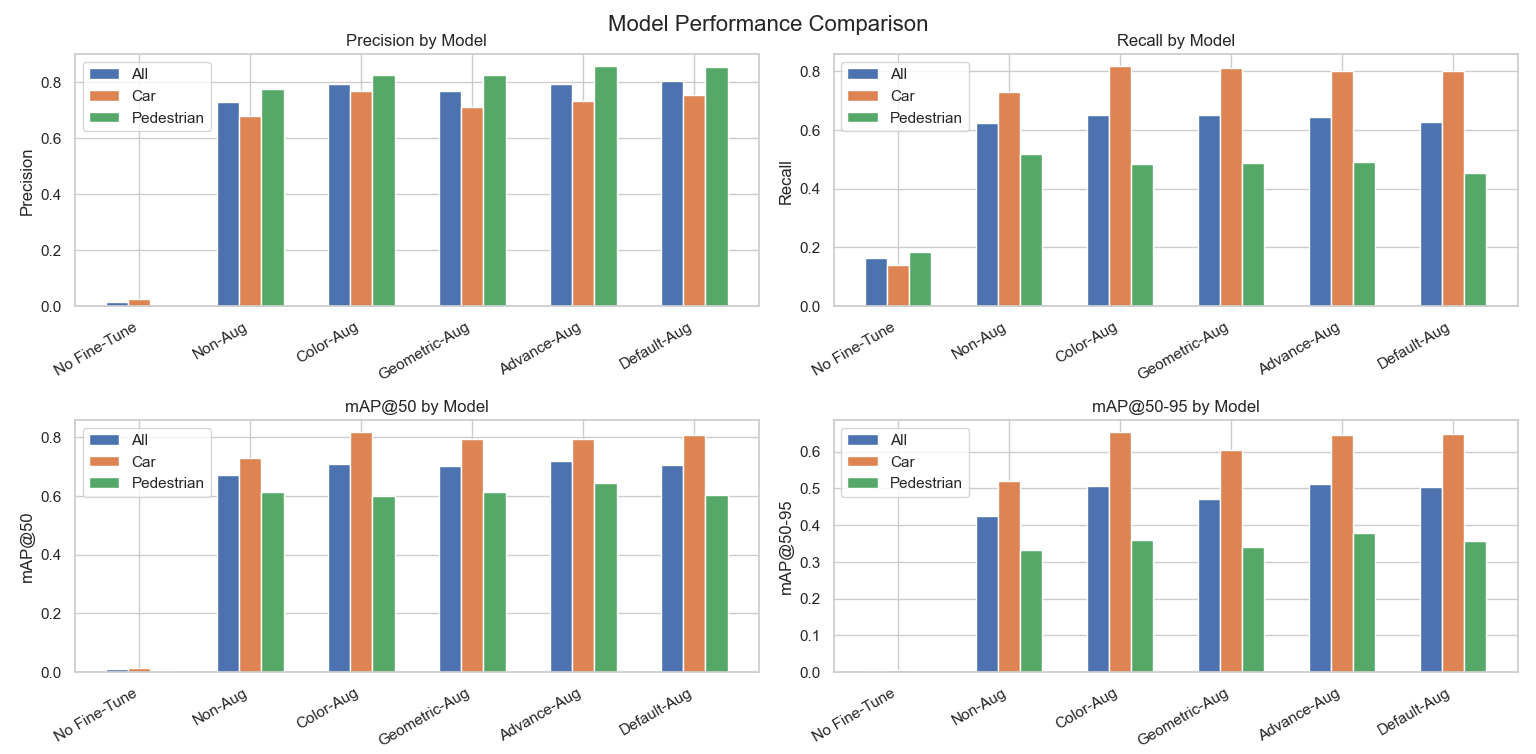
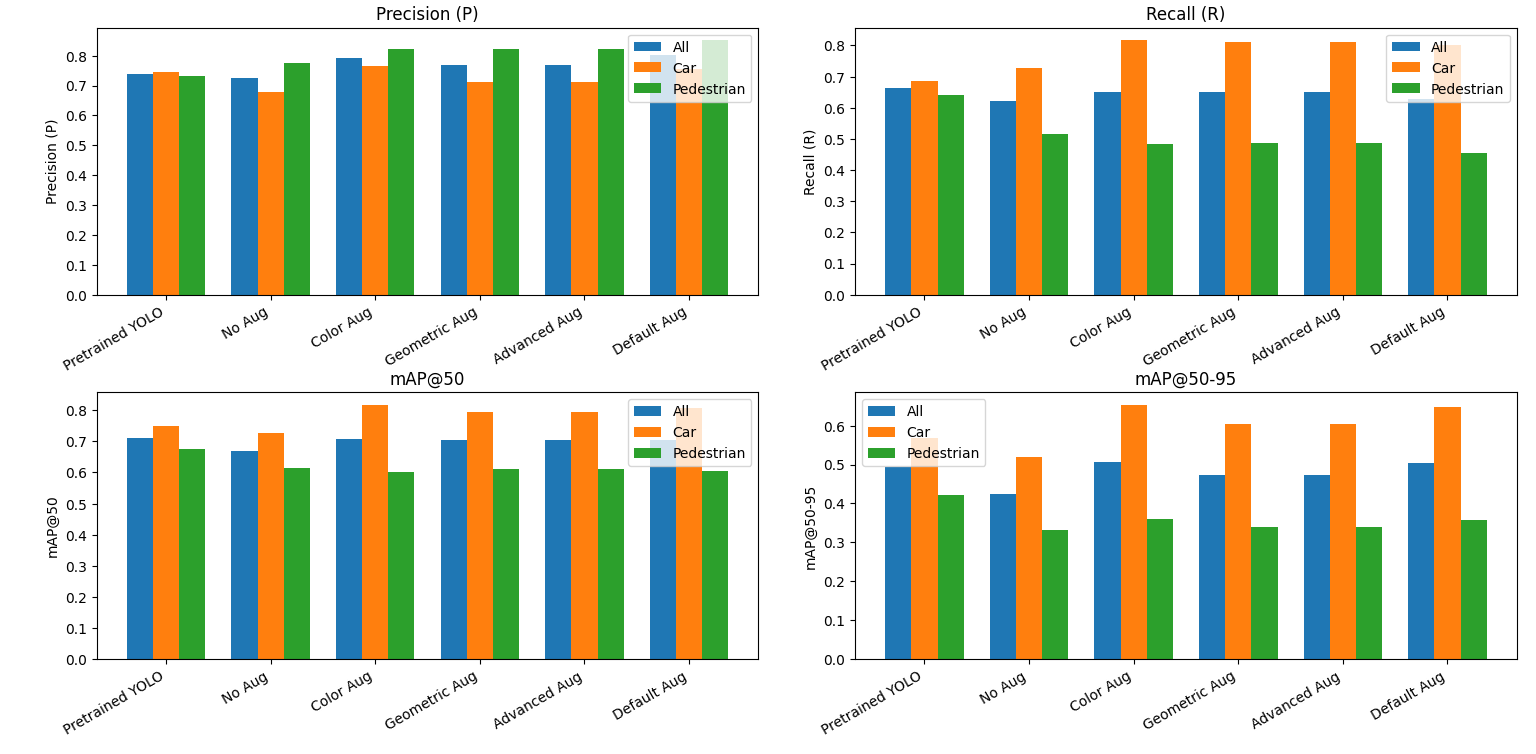
Comments in english

diff --git a/week1/YOLO/graphs.py b/week1/YOLO/graphs.py
@@ -1,65 +1,69 @@
 import matplotlib.pyplot as plt
 import numpy as np
-import seaborn as sns
 
-# Datos de los modelos
-models = ["No Fine-Tune", "Non-Aug", "Color-Aug", "Geometric-Aug", "Advance-Aug", "Default-Aug"]
+# Data
+models = [
+    "Pretrained YOLO", "No Aug", "Color Aug", "Geometric Aug", "Advanced Aug", "Default Aug"
+]
+
 classes = ["All", "Car", "Pedestrian"]
 
-# Métricas (Precision, Recall, mAP@50, mAP@50-95)
-metrics = {
-    "Precision": [
-        [0.0152, 0.0249, 0.00547],  # No Fine-Tune
-        [0.727, 0.679, 0.775],      # Non-Aug
-        [0.793, 0.765, 0.822],      # Color-Aug
-        [0.768, 0.711, 0.824],      # Geometric-Aug
-        [0.792, 0.73, 0.855],       # Advance-Aug
-        [0.803, 0.754, 0.851]       # Default-Aug
-    ],
-    "Recall": [
-        [0.163, 0.14, 0.186],
-        [0.622, 0.727, 0.516],
-        [0.65, 0.816, 0.485],
-        [0.649, 0.81, 0.488],
-        [0.645, 0.799, 0.492],
-        [0.627, 0.8, 0.454]
-    ],
-    "mAP@50": [
-        [0.00904, 0.0144, 0.00372],
-        [0.67, 0.727, 0.613],
-        [0.709, 0.817, 0.601],
-        [0.703, 0.793, 0.612],
-        [0.719, 0.794, 0.644],
-        [0.706, 0.808, 0.604]
-    ],
-    "mAP@50-95": [
-        [0.00375, 0.00602, 0.00148],
-        [0.425, 0.52, 0.331],
-        [0.507, 0.653, 0.36],
-        [0.472, 0.604, 0.34],
-        [0.512, 0.646, 0.378],
-        [0.503, 0.649, 0.357]
-    ]
-}
+precision = [
+    [0.738, 0.746, 0.731],  # Pretrained YOLO
+    [0.727, 0.679, 0.775],  # No Aug
+    [0.793, 0.765, 0.822],  # Color Aug
+    [0.768, 0.711, 0.824],  # Geometric Aug
+    [0.768, 0.711, 0.824],  # Advanced Aug
+    [0.803, 0.754, 0.851]   # Default Aug
+]
 
-# Crear gráficos para cada métrica
-sns.set(style="whitegrid")
-fig, axes = plt.subplots(2, 2, figsize=(15, 10))
-fig.suptitle("Model Performance Comparison", fontsize=16)
+recall = [
+    [0.664, 0.687, 0.641],  # Pretrained YOLO
+    [0.622, 0.727, 0.516],  # No Aug
+    [0.650, 0.816, 0.485],  # Color Aug
+    [0.649, 0.810, 0.488],  # Geometric Aug
+    [0.649, 0.810, 0.488],  # Advanced Aug
+    [0.627, 0.800, 0.454]   # Default Aug
+]
 
-for ax, (metric_name, values) in zip(axes.flatten(), metrics.items()):
-    values = np.array(values).T  # Transponer para obtener valores por clase
-    x = np.arange(len(models))
-    width = 0.2
-    
-    for i, (cls, cls_values) in enumerate(zip(classes, values)):
-        ax.bar(x + i * width, cls_values, width, label=cls)
-    
+map50 = [
+    [0.712, 0.748, 0.677],  # Pretrained YOLO
+    [0.670, 0.727, 0.613],  # No Aug
+    [0.709, 0.817, 0.601],  # Color Aug
+    [0.703, 0.793, 0.612],  # Geometric Aug
+    [0.703, 0.793, 0.612],  # Advanced Aug
+    [0.706, 0.808, 0.604]   # Default Aug
+]
+
+map50_95 = [
+    [0.494, 0.568, 0.421],  # Pretrained YOLO
+    [0.425, 0.520, 0.331],  # No Aug
+    [0.507, 0.653, 0.360],  # Color Aug
+    [0.472, 0.604, 0.340],  # Geometric Aug
+    [0.472, 0.604, 0.340],  # Advanced Aug
+    [0.503, 0.649, 0.357]   # Default Aug
+]
+
+metrics = [precision, recall, map50, map50_95]
+metric_names = ["Precision (P)", "Recall (R)", "mAP@50", "mAP@50-95"]
+
+# Graph
+fig, axes = plt.subplots(2, 2, figsize=(12, 10))
+axes = axes.flatten()
+
+x = np.arange(len(models))
+width = 0.25
+
+# Subgraphs
+for idx, ax in enumerate(axes):
+    for i, cls in enumerate(classes):
+        ax.bar(x + i * width, [metrics[idx][m][i] for m in range(len(models))], width, label=cls)
+
+    ax.set_title(metric_names[idx])
     ax.set_xticks(x + width)
     ax.set_xticklabels(models, rotation=30, ha="right")
-    ax.set_ylabel(metric_name)
-    ax.set_title(metric_name + " by Model")
+    ax.set_ylabel(metric_names[idx])
     ax.legend()
 
-plt.tight_layout(rect=[0, 0, 1, 0.95])
+plt.tight_layout()
 plt.show()

diff --git a/week1/YOLO/split_dataset.py b/week1/YOLO/split_dataset.py
@@ -2,37 +2,44 @@ import os
 import shutil
 import random
 
-# Configurar rutas
 DATASET_PATH = "/export/home/c5mcv02/KITTI-MOTS"
 TRAINING_PATH = os.path.join(DATASET_PATH, "training")
 TRAIN_OUTPUT = os.path.join(DATASET_PATH, "train")
 VAL_OUTPUT = os.path.join(DATASET_PATH, "val")
 
-# Crear carpetas de salida
+# Create output folders
 for split in [TRAIN_OUTPUT, VAL_OUTPUT]:
     os.makedirs(os.path.join(split, "images"), exist_ok=True)
     os.makedirs(os.path.join(split, "labels"), exist_ok=True)
 
-# Obtener todas las imágenes
-image_files = sorted(os.listdir(os.path.join(TRAINING_PATH, "images")))
-label_files = sorted(os.listdir(os.path.join(TRAINING_PATH, "labels")))
+sequences = sorted(os.listdir(os.path.join(TRAINING_PATH, "images")))
 
-# Mezclar aleatoriamente y dividir (80% train, 20% val)
+# 80% train, 20% val
 random.seed(42)
-data = list(zip(image_files, label_files))
-random.shuffle(data)
+random.shuffle(sequences)
 
-split_index = int(0.8 * len(data))
-train_data = data[:split_index]
-val_data = data[split_index:]
+split_index = int(0.8 * len(sequences))
+train_seqs = sequences[:split_index]
+val_seqs = sequences[split_index:]
 
-# Mover archivos a sus respectivas carpetas
-def move_files(data, split_path):
-    for img, lbl in data:
-        shutil.move(os.path.join(TRAINING_PATH, "images", img), os.path.join(split_path, "images", img))
-        shutil.move(os.path.join(TRAINING_PATH, "labels", lbl), os.path.join(split_path, "labels", lbl))
+def move_sequence(seq, split_path):
+    seq_images_path = os.path.join(TRAINING_PATH, "images", seq)
+    seq_labels_path = os.path.join(TRAINING_PATH, "labels", seq)
 
-move_files(train_data, TRAIN_OUTPUT)
-move_files(val_data, VAL_OUTPUT)
+    # create subfolders
+    os.makedirs(os.path.join(split_path, "images", seq), exist_ok=True)
+    os.makedirs(os.path.join(split_path, "labels", seq), exist_ok=True)
 
-print(f"División completada: {len(train_data)} train, {len(val_data)} val")
+    for img_file in sorted(os.listdir(seq_images_path)):
+        shutil.move(os.path.join(seq_images_path, img_file), os.path.join(split_path, "images", seq, img_file))
+
+    for lbl_file in sorted(os.listdir(seq_labels_path)):
+        shutil.move(os.path.join(seq_labels_path, lbl_file), os.path.join(split_path, "labels", seq, lbl_file))
+
+for seq in train_seqs:
+    move_sequence(seq, TRAIN_OUTPUT)
+
+for seq in val_seqs:
+    move_sequence(seq, VAL_OUTPUT)
+
+print(f"Completed: {len(train_seqs)} train sequences, {len(val_seqs)} val sequences")

diff --git a/week1/YOLO/yolo_train.py b/week1/YOLO/yolo_train.py
@@ -1,38 +1,66 @@
 from ultralytics import YOLO
 
-# Cargar YOLOv8 preentrenado
-model = YOLO("yolov8n.pt")  # o "yolov8m.pt" para mejor precisión
+# Load model
+model = YOLO("yolov8n.pt") 
 
-# Entrenamiento con augmentaciones avanzadas
+# Train with augmentations
 model.train(
     data="kitti_mots.yaml",
     epochs=50,
     batch=16,
     imgsz=640,
-    hsv_h=0.02,   # Aumenta el cambio en matiz
-    hsv_s=0.8,    # Aumenta la saturación
-    hsv_v=0.5,    # Más variación en brillo
+    hsv_h=0.02,   
+    hsv_s=0.8,   
+    hsv_v=0.5,    
     project="runs/train",
     name="color_aug",
     save=True
 )
 
 
-#    hsv_h=0.015,  # Aumenta la variación de matiz en la imagen
-#    hsv_s=0.7,    # Aumenta la saturación aleatoria
-#    hsv_v=0.4,    # Variación en brillo
-#    degrees=5,    # Rotación aleatoria de ±5 grados
-#    translate=0.1,  # Desplazamiento de imagen
-#    scale=0.5,     # Zoom aleatorio
-#    shear=5,       # Cizallamiento aleatorio
-#    flipud=0.5,    # Voltear verticalmente
-#    fliplr=0.5,    # Voltear horizontalmente
-#    mosaic=1.0,    # Mezcla imágenes para mejorar generalización
-#    mixup=0.2,     # Fusión de imágenes
-#    copy_paste=0.1, # Aumentación de Copy-Paste
+# Default parameters
+#    hsv_h=0.015,  # Increases hue variation in the image
+#    hsv_s=0.7,    # Increases random saturation
+#    hsv_v=0.4,    # Variation in brightness
+#    degrees=5,    # Random rotation of ±5 degrees
+#    translate=0.1,  # Image translation
+#    scale=0.5,     # Random zoom
+#    shear=5,       # Random shearing
+#    flipud=0.5,    # Vertical flip
+#    fliplr=0.5,    # Horizontal flip
+#    mosaic=1.0,    # Mixes images to improve generalization
+#    mixup=0.2,     # Image blending
+#    copy_paste=0.1, # Copy-Paste augmentation
+
+# Non agumented
+#   All parameters to 0.0
+
+#(color augmentations)
+#    hsv_h=0.02,   
+#    hsv_s=0.8,    
+#    hsv_v=0.5,    
+#  v2
+#    hsv_h=0.01,  
+#    hsv_s=0.5,   
+#    hsv_v=0.3,   
+
+#(geometric augmentations)
+#    degrees=10,      
+#    translate=0.2,  
+#    scale=0.8,     
+#    shear=10,      
+#  v2
+#    degrees=3,    
+#    translate=0.05, 
+#    scale=0.3,    
+#    shear=3,      
+#    fliplr=0.5,   
+#    flipud=0.0,   
 
 
-# Fase 1
-#    hsv_h=0.02,   # Aumenta el cambio en matiz
-#    hsv_s=0.8,    # Aumenta la saturación
-#    hsv_v=0.5,    # Más variación en brillo
+#(advance methods)
+#    mosaic=1.0,     
+#    mixup=0.2,   
+#  v2
+#    mosaic=0.8,  
+#    mixup=0.1,    

diff --git a/week1/YOLO/coco2yolo.py b/week1/YOLO/coco2yolo.py
@@ -1,39 +1,36 @@
 import json
 import os
 
-# Ruta del archivo JSON con anotaciones
-json_file = "YOLO/kitti_mots_coco.json"
-# Carpeta donde se guardarán las etiquetas YOLO
-labels_dir = "yolo_labels"
+json_file = "kitti_mots_coco.json"
+labels_dir = "KITTI-MOTS/training/labels"
 
-# Crear carpeta de etiquetas si no existe
+# Create folder
 os.makedirs(labels_dir, exist_ok=True)
 
-# Mapeo de categorías a índices YOLO
+# Mapping
 category_map = {1: 0, 2: 1, 10: 2}  # "car" -> 0, "pedestrian" -> 1
 
-# Cargar JSON
+# Load JSON
 with open(json_file, "r") as f:
     annotations = json.load(f)
 
-# Procesar cada imagen
+# Process each image
 for ann in annotations:
-    # Obtener el nombre de la imagen y el directorio donde se guardará la etiqueta
     image_name = ann["image"].split("/")[-1].replace(".png", ".txt")
     
-    # Extraer el prefijo de la imagen (por ejemplo, "0000")
     folder_name = ann["image"].split("/")[0]
     folder_path = os.path.join(labels_dir, folder_name)
     
-    # Crear la subcarpeta si no existe
+    # Create subfolder
     os.makedirs(folder_path, exist_ok=True)
 
-    # Crear la ruta completa del archivo de etiqueta
     label_path = os.path.join(folder_path, image_name)
 
     with open(label_path, "w") as label_file:
         for obj_id, bbox, category in zip(ann["objects"]["id"], ann["objects"]["bbox"], ann["objects"]["category"]):
-
+            # Category 10 - ignore
+            if category == 10:
+                continue
 
             x, y, w, h = bbox
             x_center = (x + w / 2) / ann["width"]
@@ -41,7 +38,6 @@ for ann in annotations:
             w_norm = w / ann["width"]
             h_norm = h / ann["height"]
 
-            # Escribir la etiqueta en el archivo
             label_file.write(f"{category_map[category]} {x_center} {y_center} {w_norm} {h_norm}\n")
 
-print("✅ Conversión completada. Archivos guardados en:", labels_dir)
+print("Completed. Labels saved in:", labels_dir)

diff --git a/week1/YOLO/yolo_test.py b/week1/YOLO/yolo_test.py
@@ -3,27 +3,25 @@ import cv2
 import os
 import glob
 
-# Configuración
-MODEL_PATH = "runs/train/all_aug/weights/best.pt"  # Cambia a tu modelo fine-tuneado si lo tienes
-IMAGE_ROOT = "/export/home/c5mcv02/KITTI-MOTS/testing/images/0000"  # Carpeta 0000 de test
-OUTPUT_ROOT = "runs/inference/all_aug_prueba"  # Carpeta donde se guardarán los resultados
+# Configuration
+MODEL_PATH = "runs/train/all_aug/weights/best.pt"  
+IMAGE_ROOT = "/export/home/c5mcv02/KITTI-MOTS/testing/images/0000"  
+OUTPUT_ROOT = "runs/inference/all_aug" 
 
-# Cargar modelo YOLOv8
+# Load model
 model = YOLO(MODEL_PATH)
 
-# Carpeta de salida para los resultados
-output_folder = os.path.join(OUTPUT_ROOT, "0000")  # Carpeta de salida específica para 0000
+# Output folder
+output_folder = os.path.join(OUTPUT_ROOT, "0000") 
 os.makedirs(output_folder, exist_ok=True)
 
-# Obtener imágenes de la carpeta 0000
-image_paths = sorted(glob.glob(os.path.join(IMAGE_ROOT, "*.png")))  # KITTI usa .png
+image_paths = sorted(glob.glob(os.path.join(IMAGE_ROOT, "*.png"))) 
 
-# Ejecutar inferencia en cada imagen
+# Inference for each image
 for img_path in image_paths:
-    results = model(img_path)  # Realizar inferencia
+    results = model(img_path)
     
-    # Guardar imagen con predicciones
     save_path = os.path.join(output_folder, os.path.basename(img_path))
-    results[0].save(save_path)  # Guarda la imagen con las predicciones
+    results[0].save(save_path) 
 
-print(f"Resultados guardados en {OUTPUT_ROOT}/0000")
+print(f"Results saved in {OUTPUT_ROOT}/0000")

diff --git a/week1/YOLO/yolo_evaluate.py b/week1/YOLO/yolo_evaluate.py
@@ -1,6 +1,7 @@
 from ultralytics import YOLO
 
-model = YOLO("yolov8n.pt")
+# Load model
+model = YOLO("runs/train/all_aug/weights/best.pt")
 
 # Evaluate KITTI-MOTS
 metrics = model.val(data="YOLO/kitti_mots.yaml")
